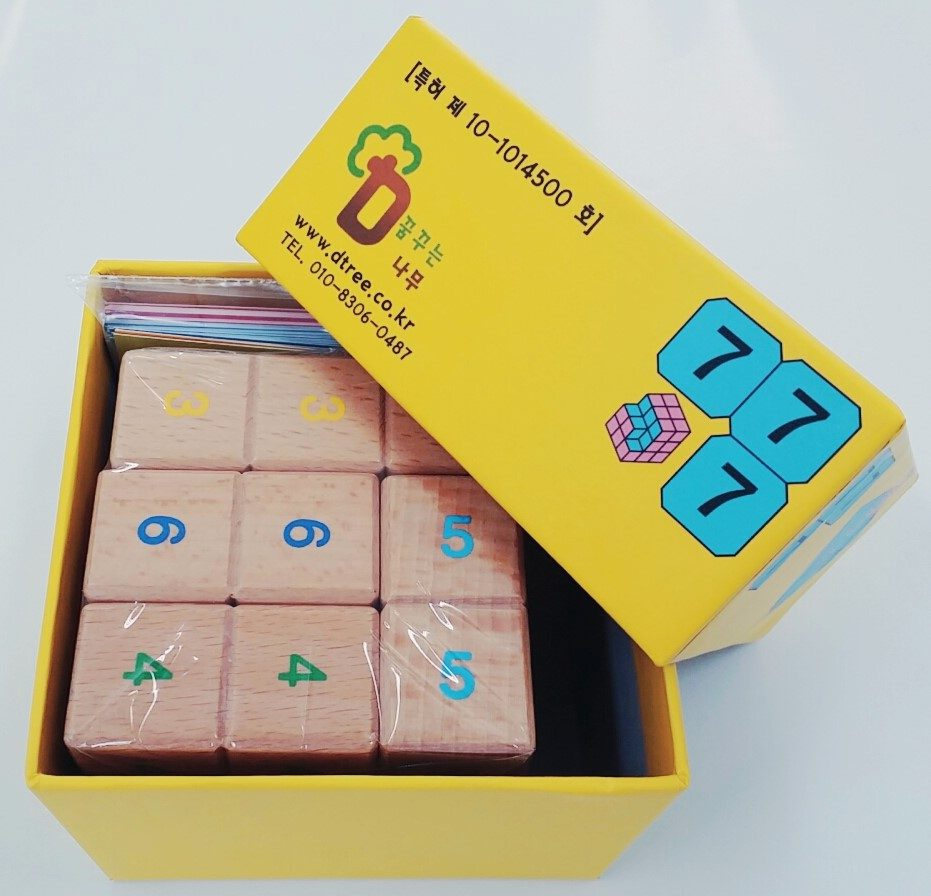
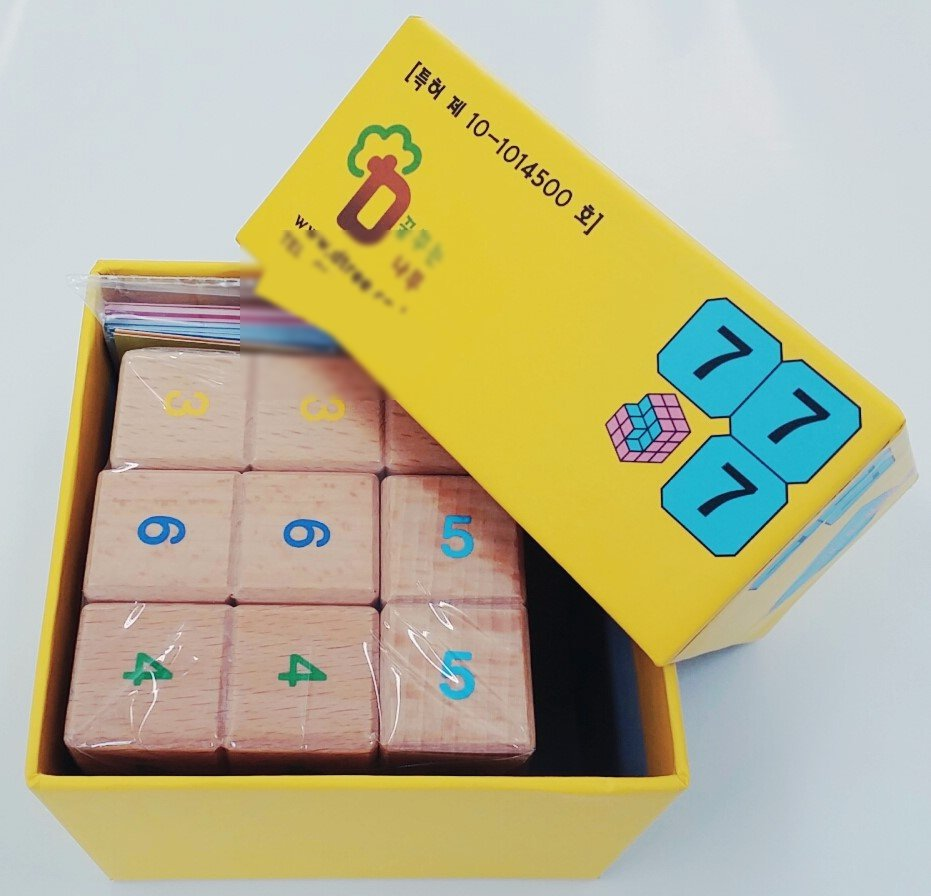
fix: phone number removed from box photo; pieces montage shown uncropped

Changed region(s): [[0.2492, 0.25, 0.4672, 0.4062], [0.3738, 0.4062, 0.4049, 0.4375]]

diff --git a/story.html b/story.html
@@ -34,6 +34,7 @@
 }
 .photo-slot img { display: block; width: 100%; aspect-ratio: 4 / 3; object-fit: cover; }
 .photo-slot.wide { grid-column: 1 / -1; }
+.photo-slot.fit img { aspect-ratio: auto; object-fit: contain; background: #fff; }
 .photo-slot.wide img { aspect-ratio: 16 / 9; }
 .photo-slot figcaption {
   padding: 10px 14px 12px; font-size: 0.82rem; color: var(--ink-soft);
@@ -80,7 +81,7 @@
        data-ko="그 조각들은 한국의 공교육 교실과 영재교육 수업에서 약 천 명의 학생들을 만났습니다. 작은 손들이 나뭇결을 만지고, 다시 맞추고, 조용히 맞물리는 소리를 들었습니다.">In Korea's public-school classrooms and gifted-education programs, about a thousand students picked up those pieces. Small hands traced the wood grain, tried again, and heard the quiet click of a fit.</p>
     <div class="photo-row">
       <figure class="photo-slot"><img src="/assets/story/tool_box.jpg" alt="The original Seven Puzzle teaching tool — wooden numbered cubes in their yellow box" loading="lazy"><figcaption data-en="The original tool, as teachers made it" data-ko="교사의 손에서 태어난 실물 교구">The original tool, as teachers made it</figcaption></figure>
-      <figure class="photo-slot"><img src="/assets/story/seven_pieces.jpg" alt="The seven wooden pieces, numbered 1 to 7" loading="lazy"><figcaption data-en="Seven pieces, numbered one to seven" data-ko="1부터 7까지, 일곱 조각">Seven pieces, numbered one to seven</figcaption></figure>
+      <figure class="photo-slot fit"><img src="/assets/story/seven_pieces.jpg" alt="The seven wooden pieces, numbered 1 to 7" loading="lazy"><figcaption data-en="Seven pieces, numbered one to seven" data-ko="1부터 7까지, 일곱 조각">Seven pieces, numbered one to seven</figcaption></figure>
     </div>
   </section>
 
